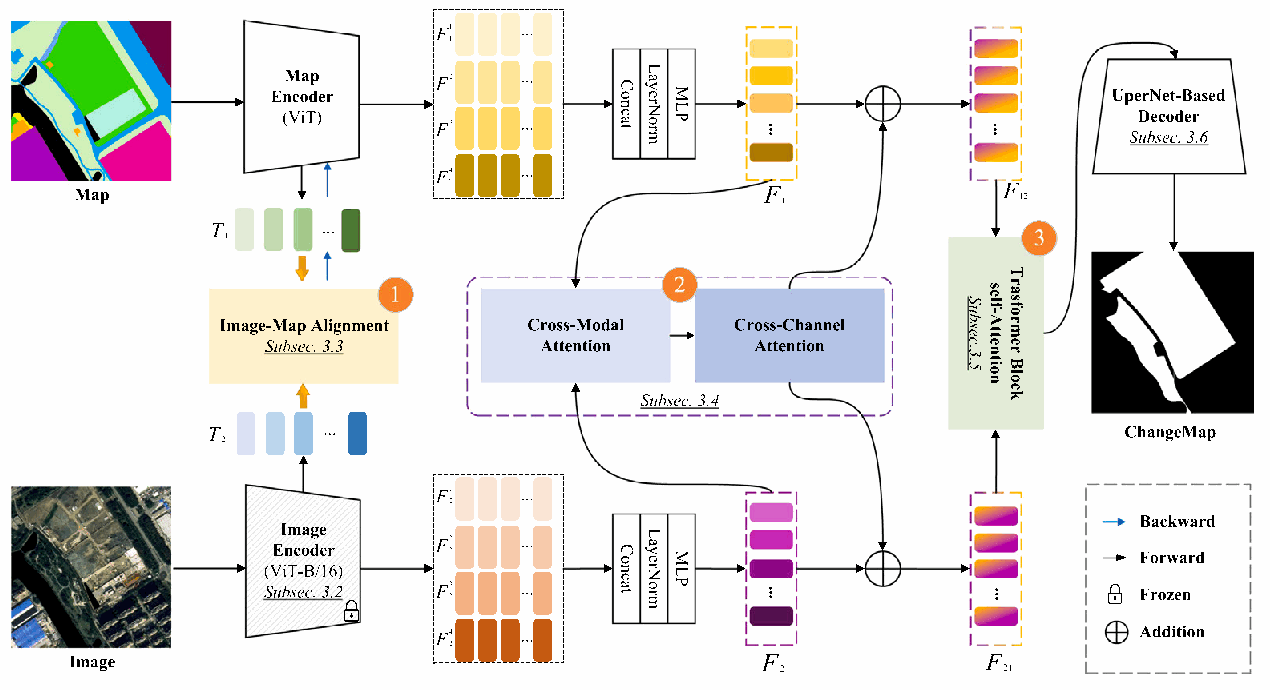
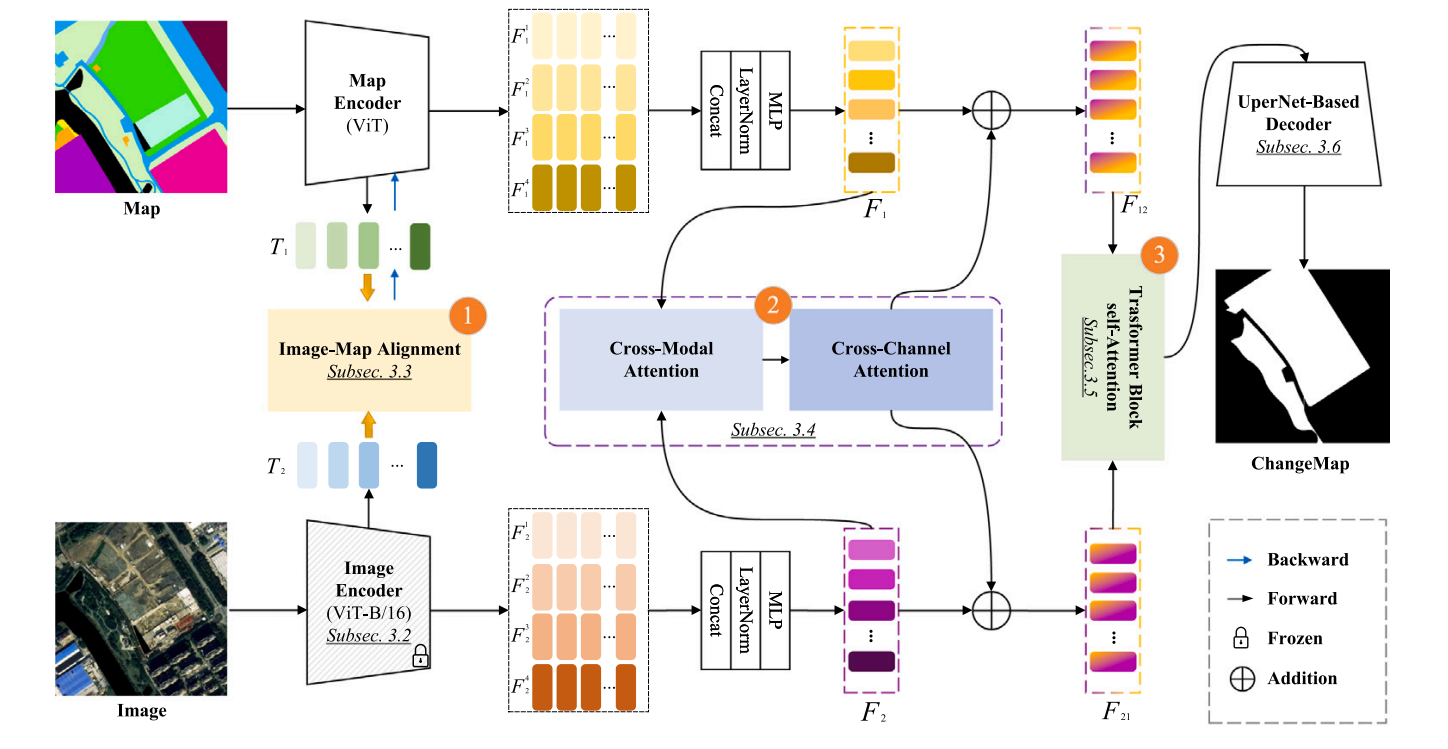
Update network architecture figure with author-provided image

diff --git a/images/FIGURES.md b/images/FIGURES.md
@@ -2,8 +2,8 @@
 
 Source: K. Deng et al., *Cross-modal change detection using historical land use maps and current remote sensing images*, ISPRS Journal of Photogrammetry and Remote Sensing 218 (2024), 114–132. DOI: [10.1016/j.isprsjprs.2024.10.010](https://doi.org/10.1016/j.isprsjprs.2024.10.010).
 
-- `cmpanet_architecture.png`: Figure 2, architecture (PDF page 4, printed page 117).
+- `cmpanet_architecture.png`: Figure 2, architecture; updated from the author-provided `network.png` on 2026-10-19, replacing the PDF crop.
 - `evlab_qualitative_results.png`: Figure 9, qualitative comparison (PDF page 13, printed page 126).
 - `evlab_shpcd.png`: existing dataset illustration retained from this repository.
 
-The two paper figures were extracted from the author-provided PDF. They show published illustrations/results, not new predictions from this release. They retain original publication rights and are not relicensed by the source-code license.
+The architecture image was supplied directly by the author; the qualitative comparison was extracted from the author-provided PDF. They show published illustrations/results, not new predictions from this release. They retain original publication rights and are not relicensed by the source-code license.
